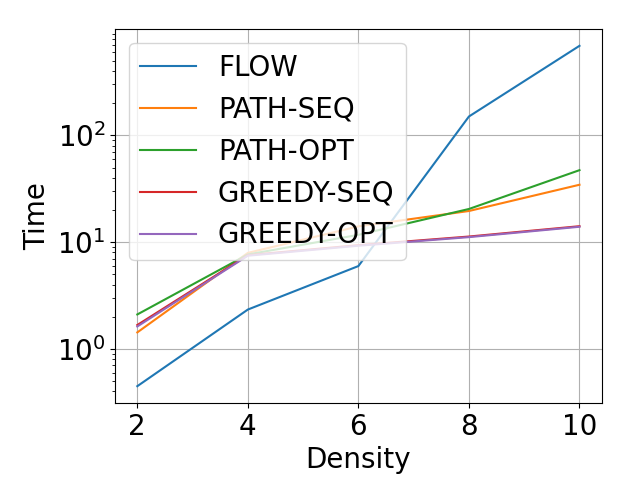
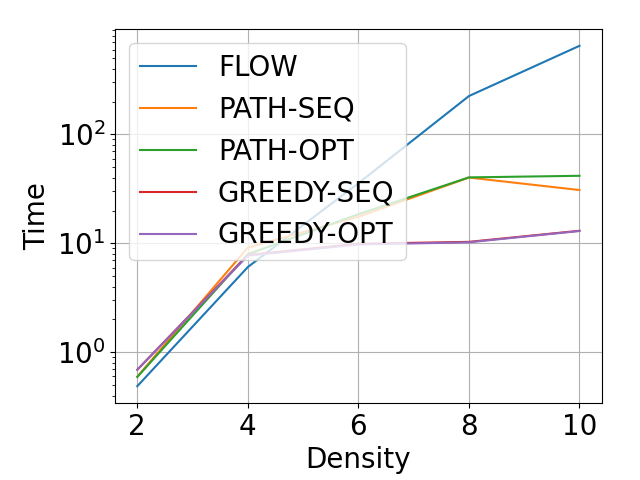
sync

diff --git a/src/test/efficiency.py b/src/test/efficiency.py
@@ -24,7 +24,7 @@ from ..utils.plot import plot_2y_lines, plot_lines
 
 def run_flow_solver(
     network: Topology,
-    time_limit=600,
+    time_limit=1000,
     mip_gap=0.01,
     ):
     start = time.time()
@@ -45,7 +45,7 @@ def run_path_solver(
     network: Topology,
     k = 100, 
     edge_weight='length', 
-    time_limit=600,
+    time_limit=1000,
     mip_gap=0.01,
     swap_func=complete_swap,
     ):
@@ -122,6 +122,8 @@ def compare_efficiency(node_num, params, repeat=1):
         flow_density_control = 4
     if node_num <= 35:
         flow_density_control = 6
+    if node_num <= 30:
+        flow_density_control = 8
     if node_num <= 20:
         flow_density_control = 10
     if node_num <= 10:
